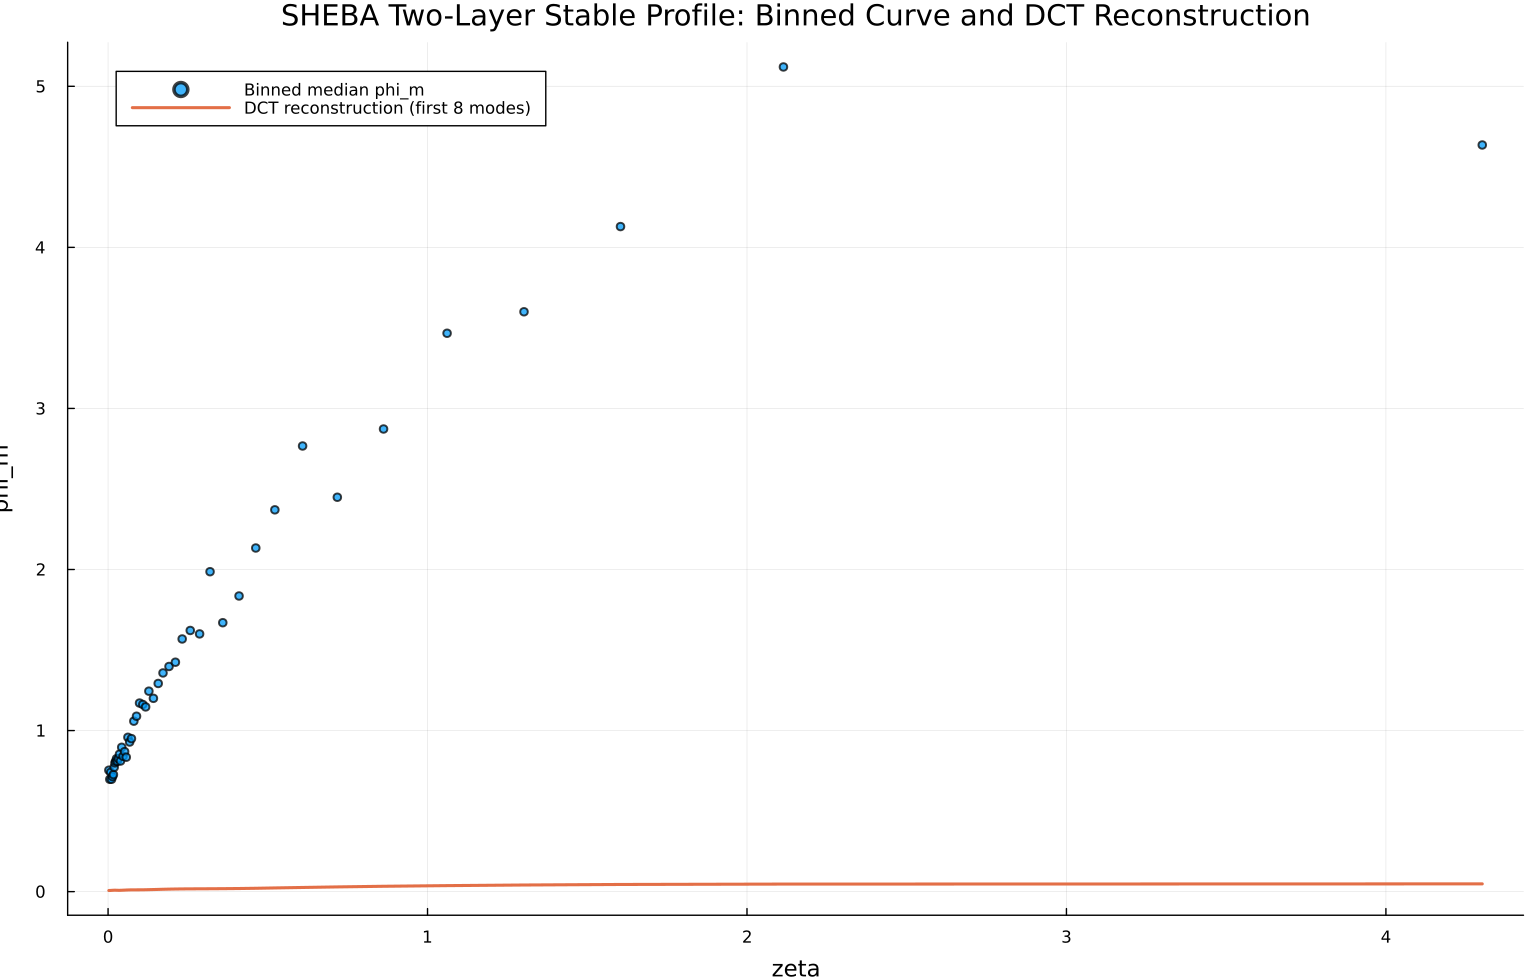
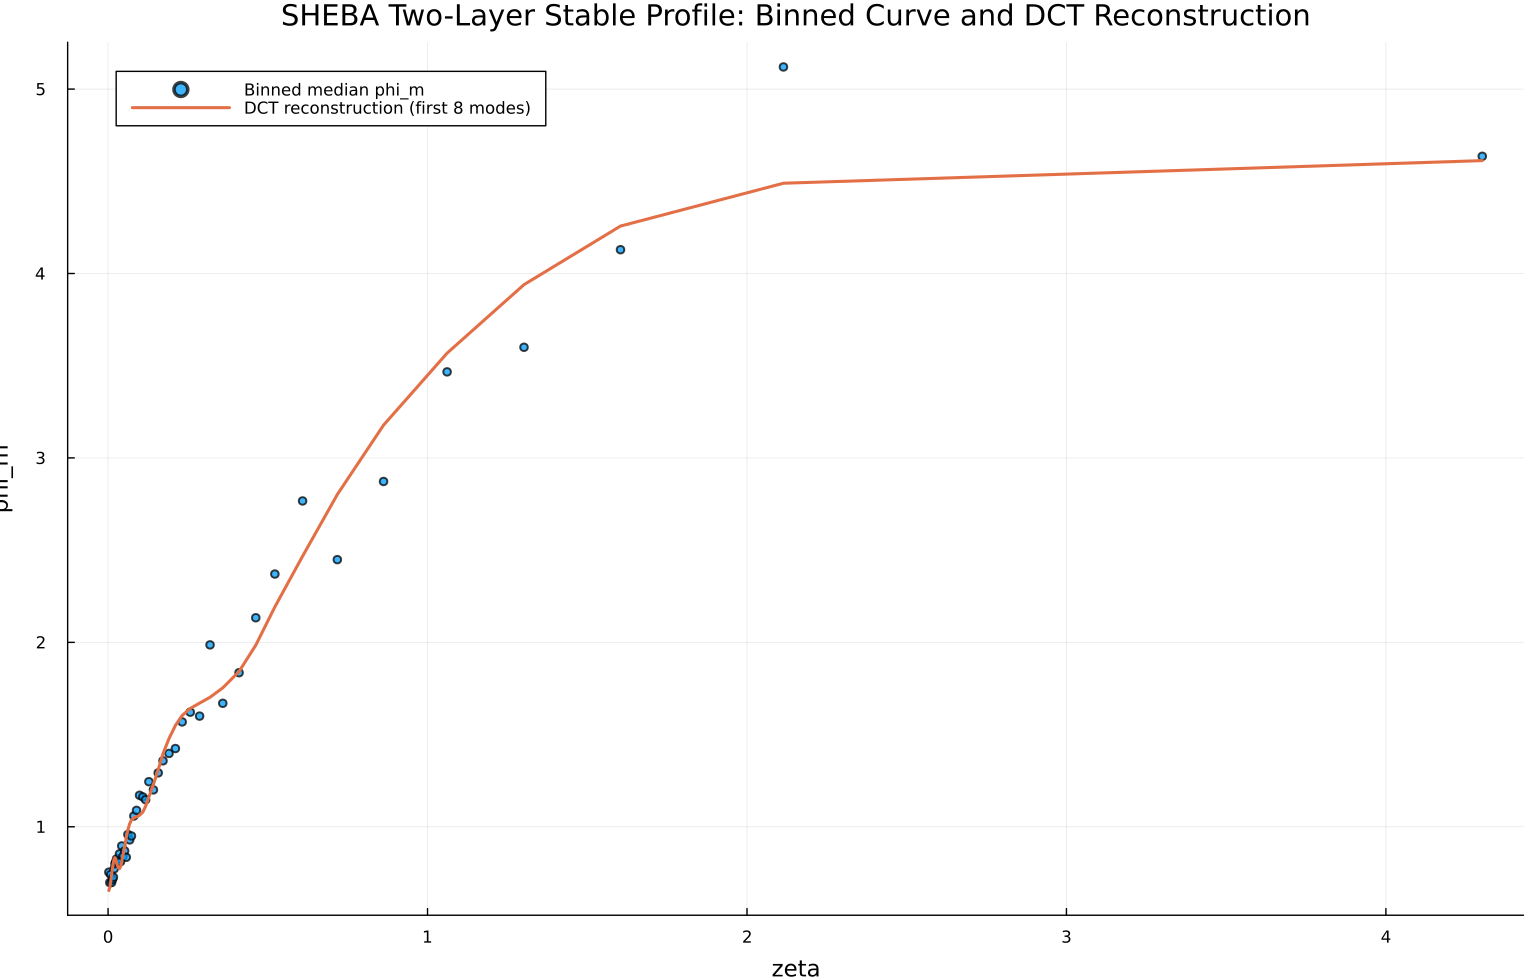
SHEBA results

diff --git a/runs/sheba/dct_main_file6/report.md b/runs/sheba/dct_main_file6/report.md
@@ -4,8 +4,8 @@
 - Rows used: 2266
 - Quantile bins: 48
 - DCT modes kept: 8
-- Binned reconstruction RMSE: 1.86485
-- Binned reconstruction MAE: 1.53545
+- Binned reconstruction RMSE: 0.15298
+- Binned reconstruction MAE: 0.09843
 - Spectral variance kept: 99.34%
 
 ## Regime Summary